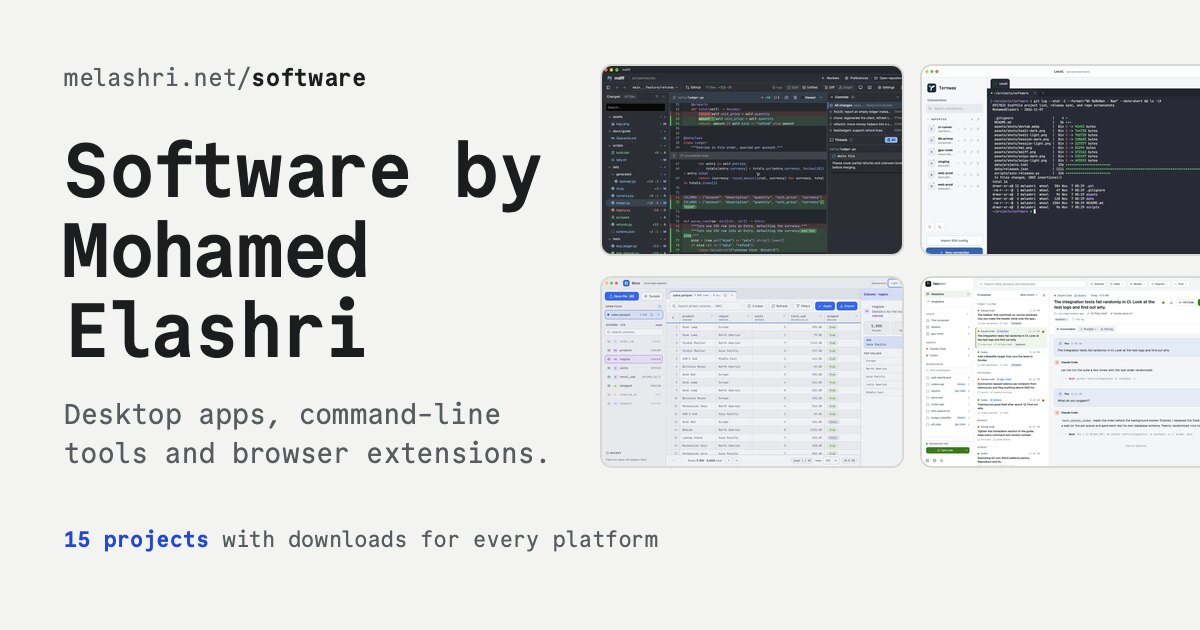
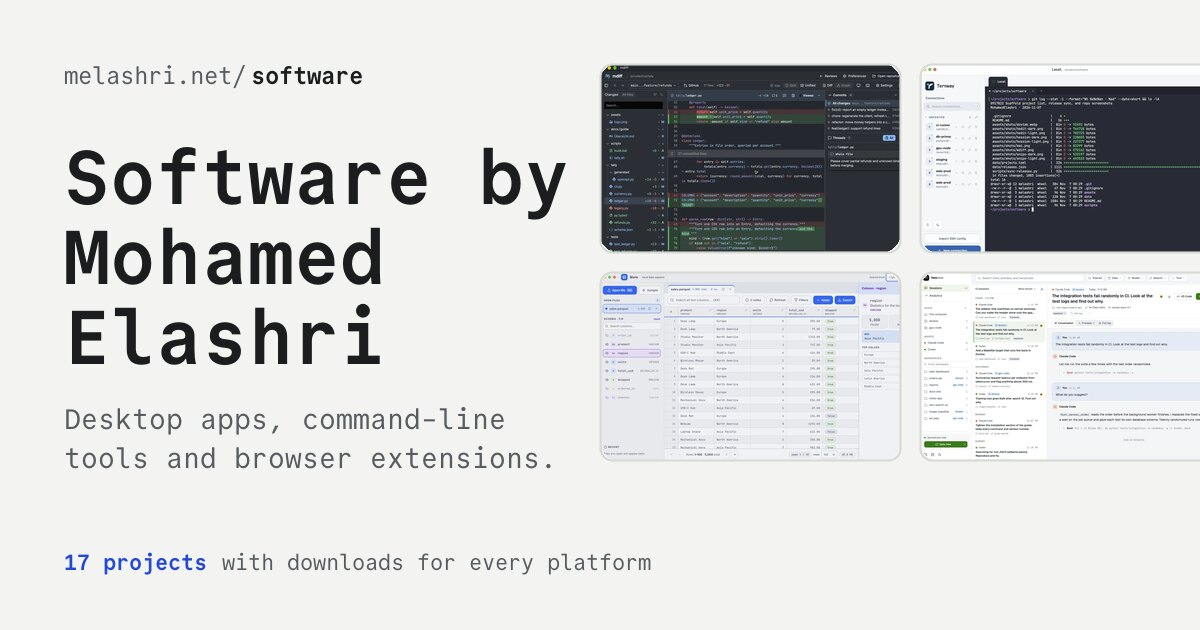
List Snippy and Snipo browser extensions separately

diff --git a/scripts/build-og.py b/scripts/build-og.py
@@ -29,7 +29,7 @@ BROWSERS = [
     "/Applications/Waterfox.app/Contents/MacOS/waterfox",
     "firefox",
 ]
-OS_NAMES = {"macos": "macOS", "linux": "Linux", "windows": "Windows", "firefox": "Firefox"}
+OS_NAMES = {"macos": "macOS", "linux": "Linux", "windows": "Windows", "firefox": "Firefox", "chrome": "Chrome"}
 SECTION_NAMES = {"apps": "Desktop app", "cli": "Command-line tool", "extensions": "Browser extension"}
 
 STYLE = """

diff --git a/content/snipo.md b/content/snipo.md
@@ -1,17 +1,17 @@
 +++
 title = "Snipo"
-description = "A self-hosted snippet manager, with a terminal client and editor and browser extensions."
+description = "A self-hosted snippet manager for code fragments, commands and notes."
 template = "project"
 
 [extra]
 id = "snipo"
 +++
 
-A snippet manager you run yourself, built for a single user: one master password protects the whole instance and there are no accounts to manage. The web app holds your code fragments, commands and notes, and separate clients let you reach them from the terminal, VS Code and the browser.
+A snippet manager you run yourself, built for a single user: one master password protects the whole instance and there are no accounts to manage. The server includes a web app for your code fragments, commands and notes. Run it with Docker Compose or use a Linux server binary.
 
 - Snippets with multiple named files, folders, tags, favorites, archiving, expiration and edit history
 - Search and filter by text, tag, folder, language or favorite
 - A choice of Ace, CodeMirror 6 or Monaco editors, plus Markdown preview and right-to-left text
 - Public share links, API tokens, encrypted backups and optional sync with GitHub Gists
-- Snippy, a terminal UI for browsing, editing and copying snippets
-- A VS Code extension to search, insert and save snippets, and a Chrome and Firefox extension that saves selected text
+
+Use [Snippy](../snippy/) to browse, edit and copy snippets in the terminal, or [Snipo for browsers](../snipo-extension/) to save selected text from Chrome and Firefox. Both connect to your running Snipo server.

diff --git a/content/snipo-extension.md b/content/snipo-extension.md
@@ -1,0 +1,21 @@
++++
+title = "Snipo for browsers"
+description = "Save selected text to your Snipo server from Chrome and Firefox."
+template = "project"
+
+[extra]
+id = "snipo-extension"
++++
+
+The Chrome and Firefox companion to a running [Snipo server](../snipo/). Select text on a page and choose **Save to Snipo** from the context menu.
+
+- Quick mode saves a private, single-file snippet immediately
+- Interactive mode lets you edit the title, description, filename, language, folder and tags before saving
+- Page titles and URLs provide default snippet metadata
+- Ignored sites let you disable the extension on selected domains
+
+Install from the [Chrome Web Store](https://chromewebstore.google.com/detail/snipo-code-snippet-manage/gagllhkjibjhllhkmiphjpahbgnmgana) or [Firefox Add-ons](https://addons.mozilla.org/firefox/addon/snipo-code-snippet-manager/). Store versions may lag the GitHub release shown here.
+
+The downloads on this page are release ZIPs: extract the Chrome package and load it as an unpacked extension; the Firefox package is for temporary loading or store submission, rather than signed installation. Use Firefox Add-ons for a signed installation.
+
+In the extension options, enter your Snipo server URL and a dedicated API token with write permission, test the connection, and save. Use [Snippy](../snippy/) if you prefer to work in the terminal.

diff --git a/content/snippy.md b/content/snippy.md
@@ -1,0 +1,17 @@
++++
+title = "Snippy"
+description = "Browse, edit and copy snippets from your Snipo server in the terminal."
+template = "project"
+
+[extra]
+id = "snippy"
++++
+
+The terminal client for a running [Snipo server](../snipo/), available for macOS, Linux and Windows. It ships in the same release as the server and is also available through Homebrew.
+
+- Browse and search snippets with keyboard navigation
+- Create and edit snippets, including opening content in your preferred editor
+- Move between files in a snippet and copy their contents to the clipboard
+- Toggle favorites and manage snippets without leaving the terminal
+
+After installing, run `snippy config` to enter your Snipo server URL and a dedicated API token with write permission, then launch `snippy`.
